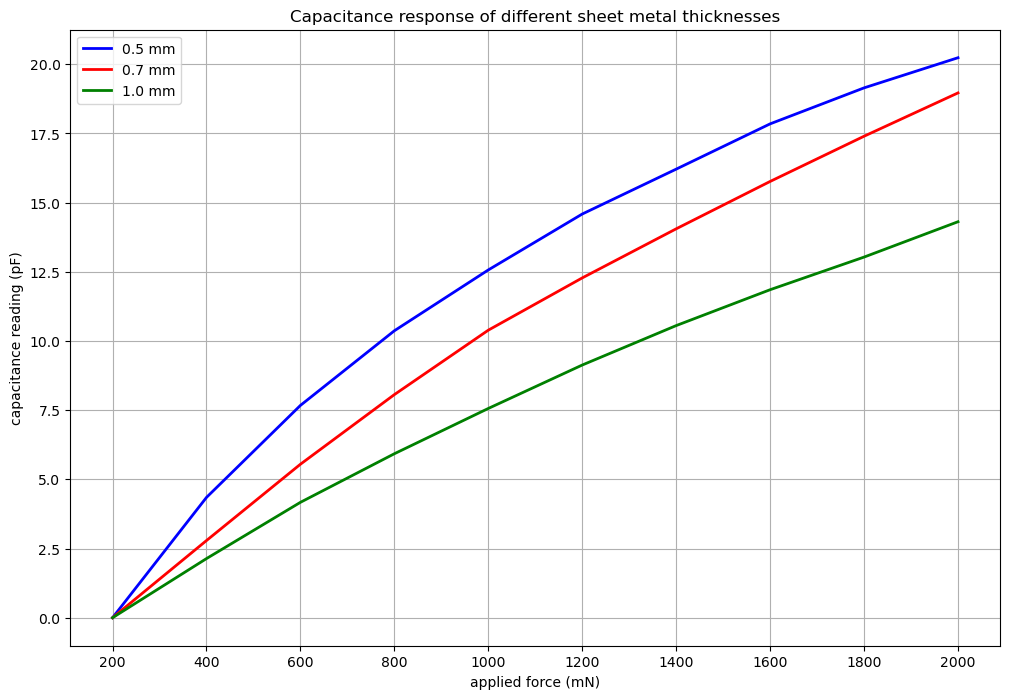
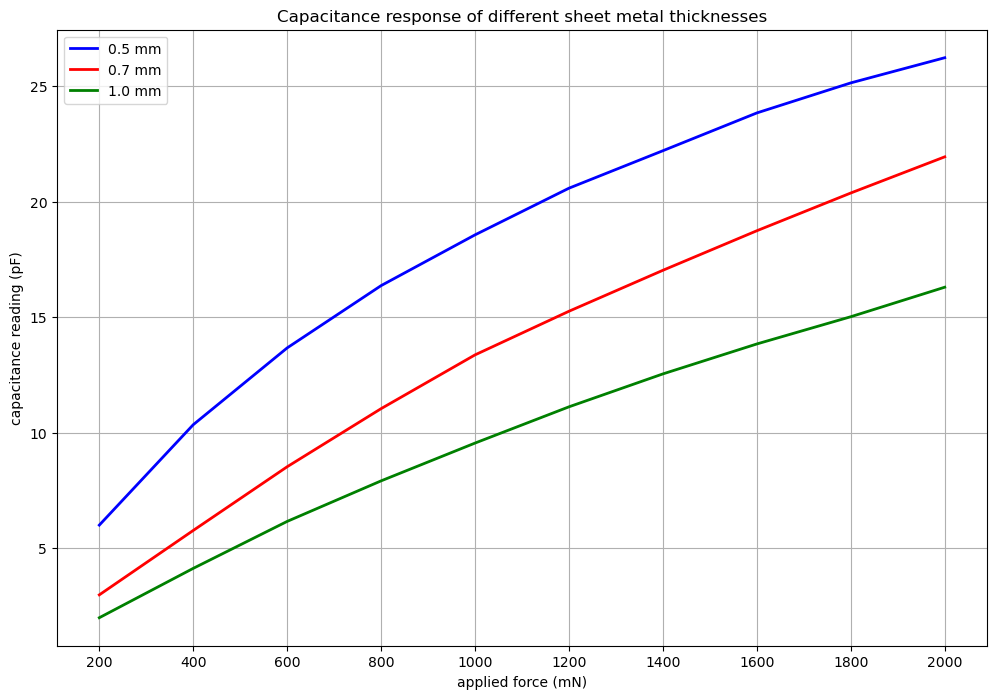
fix: remove virtual tare

diff --git a/software/calculations/capacitance_curve.py b/software/calculations/capacitance_curve.py
@@ -18,7 +18,7 @@ def plot_capacitance_per_force_curves():
             sums = [] # sum of capacitances in reading
             radius_caps = [[], []] # capacitances and their radius from max point
             pos_maxes = [0.0]*10
-            virtual_tare = 0
+            #virtual_tare = 0
             for force in forces:
                 data_file_name = thickness + "_" + str(position) + "_" + str(force) + ".txt"
                 if os.path.isfile(data_path + data_file_name):
@@ -29,15 +29,15 @@ def plot_capacitance_per_force_curves():
                     force_i = forces.index(force)
 
                     # virtual tare
-                    if(force_i == 0):
-                        virtual_tare = max(caps)
+                    #if(force_i == 0):
+                    #    virtual_tare = max(caps)
 
                     if(len(maxes) <= force_i):
                         maxes.append(0)
                     
-                    maxes[force_i] += max(caps) - virtual_tare
+                    maxes[force_i] += max(caps)# - virtual_tare
 
-                    pos_maxes[force_i] = max(caps) - virtual_tare
+                    pos_maxes[force_i] = max(caps)# - virtual_tare
 
                     if(force == 2000):
                         print("cap@2000: " + str(max(caps)))
